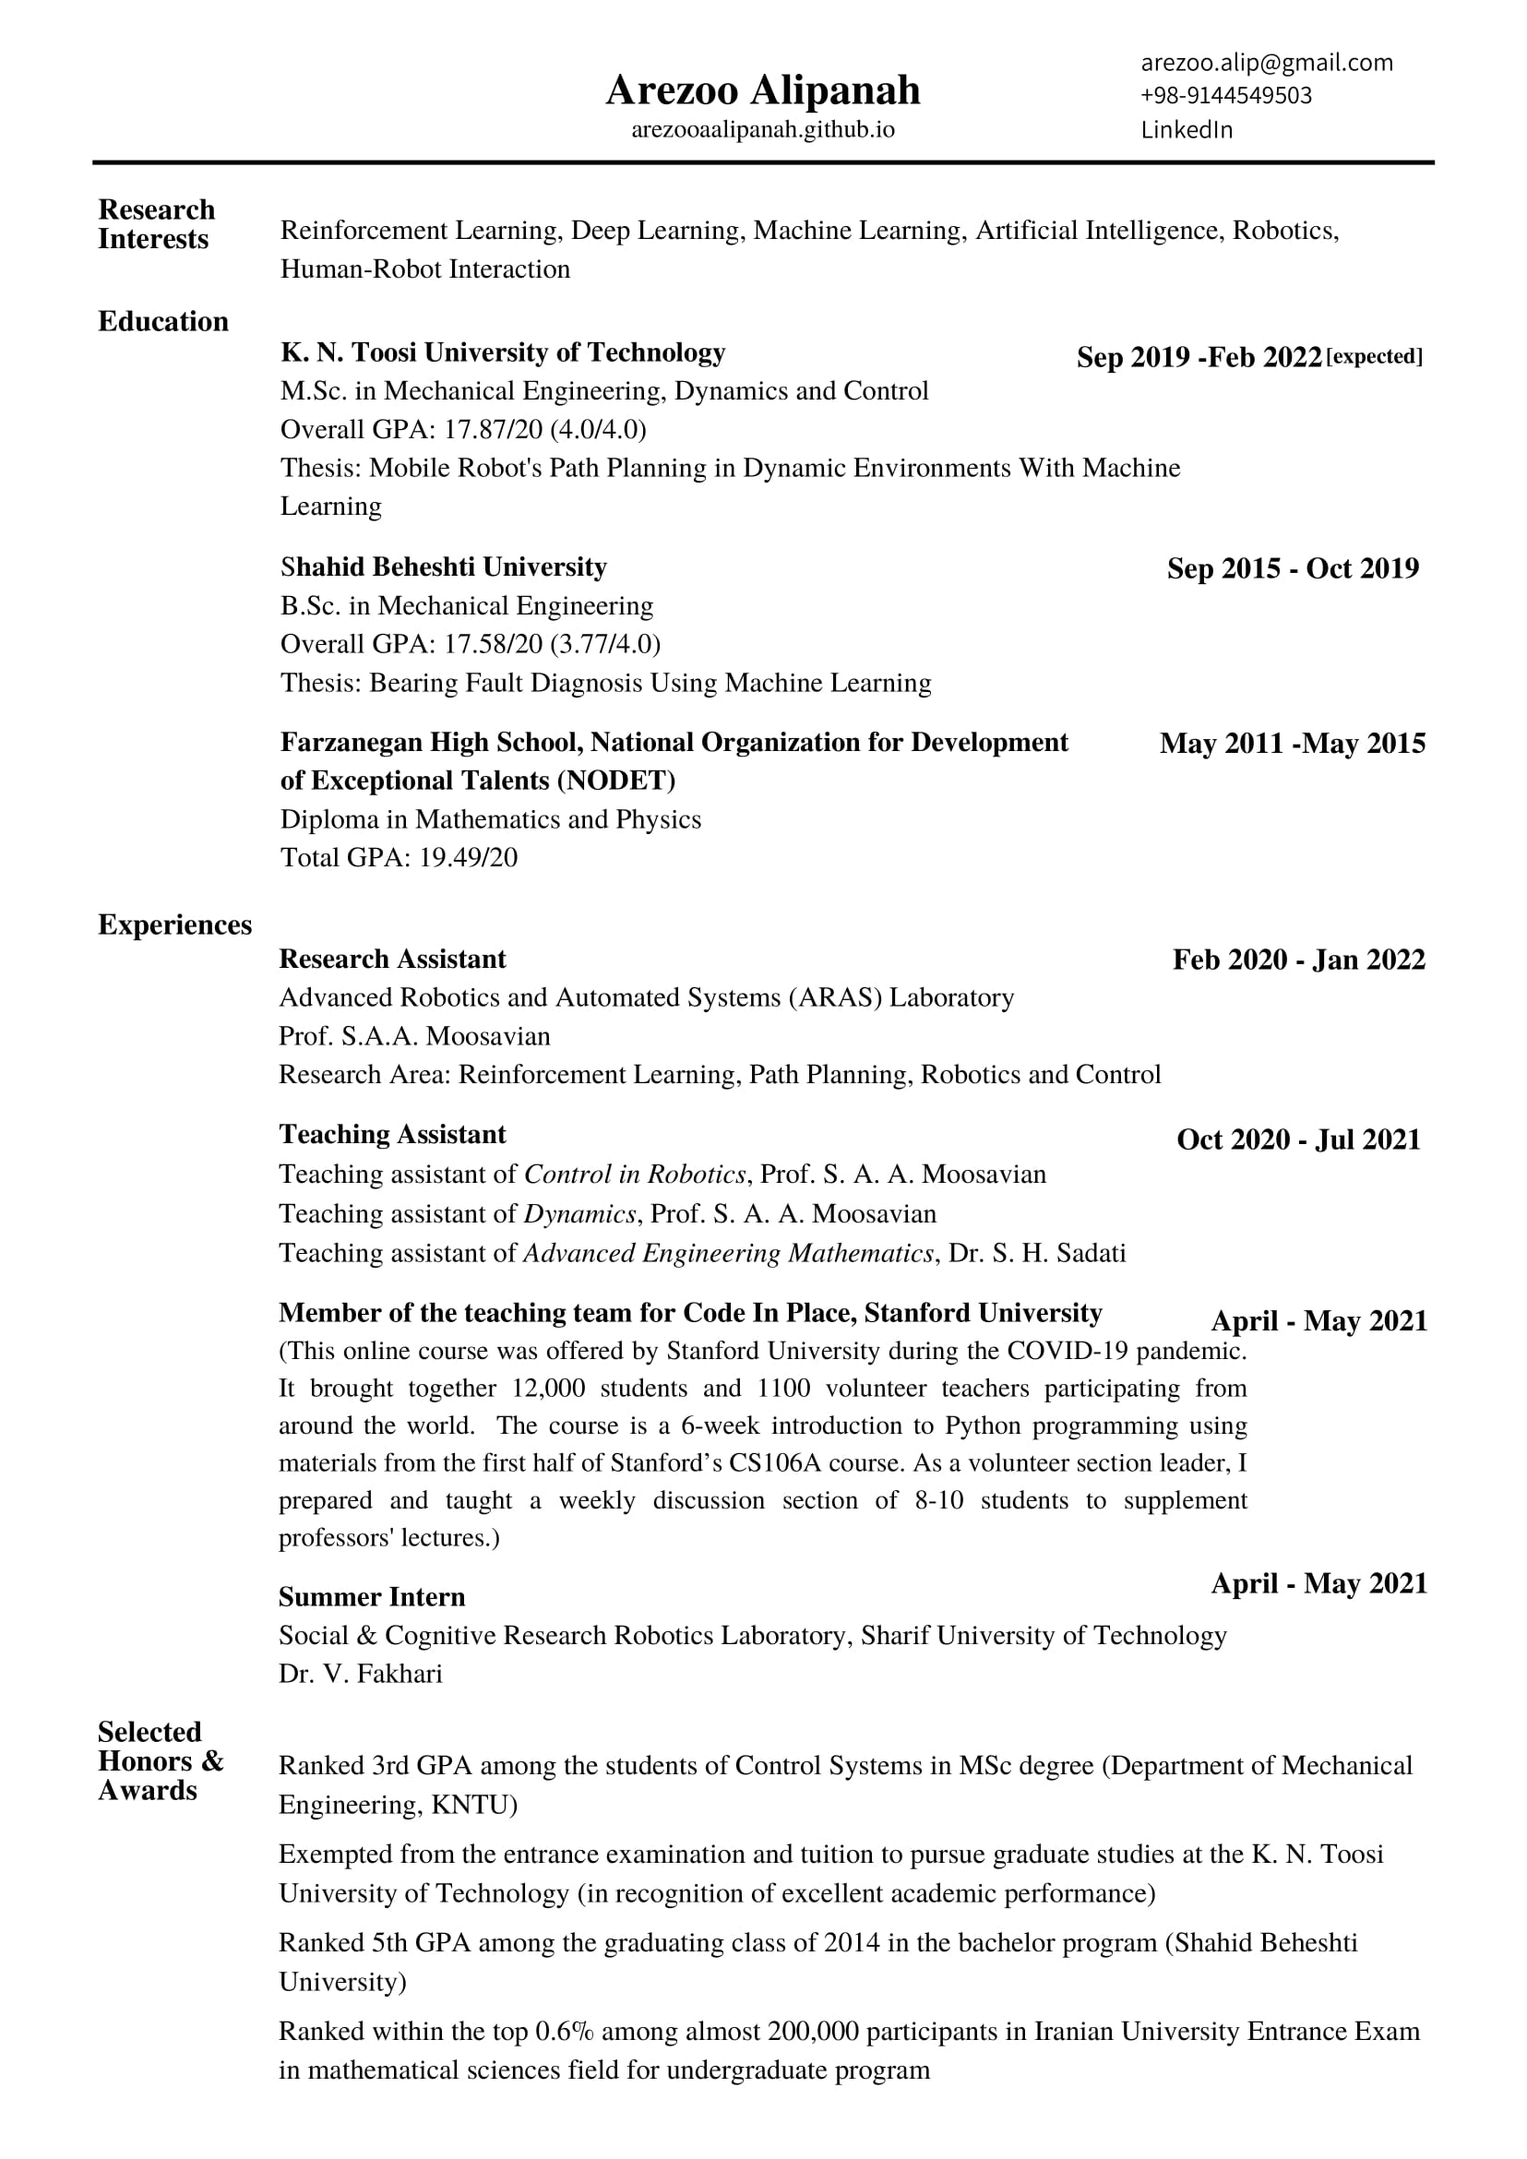
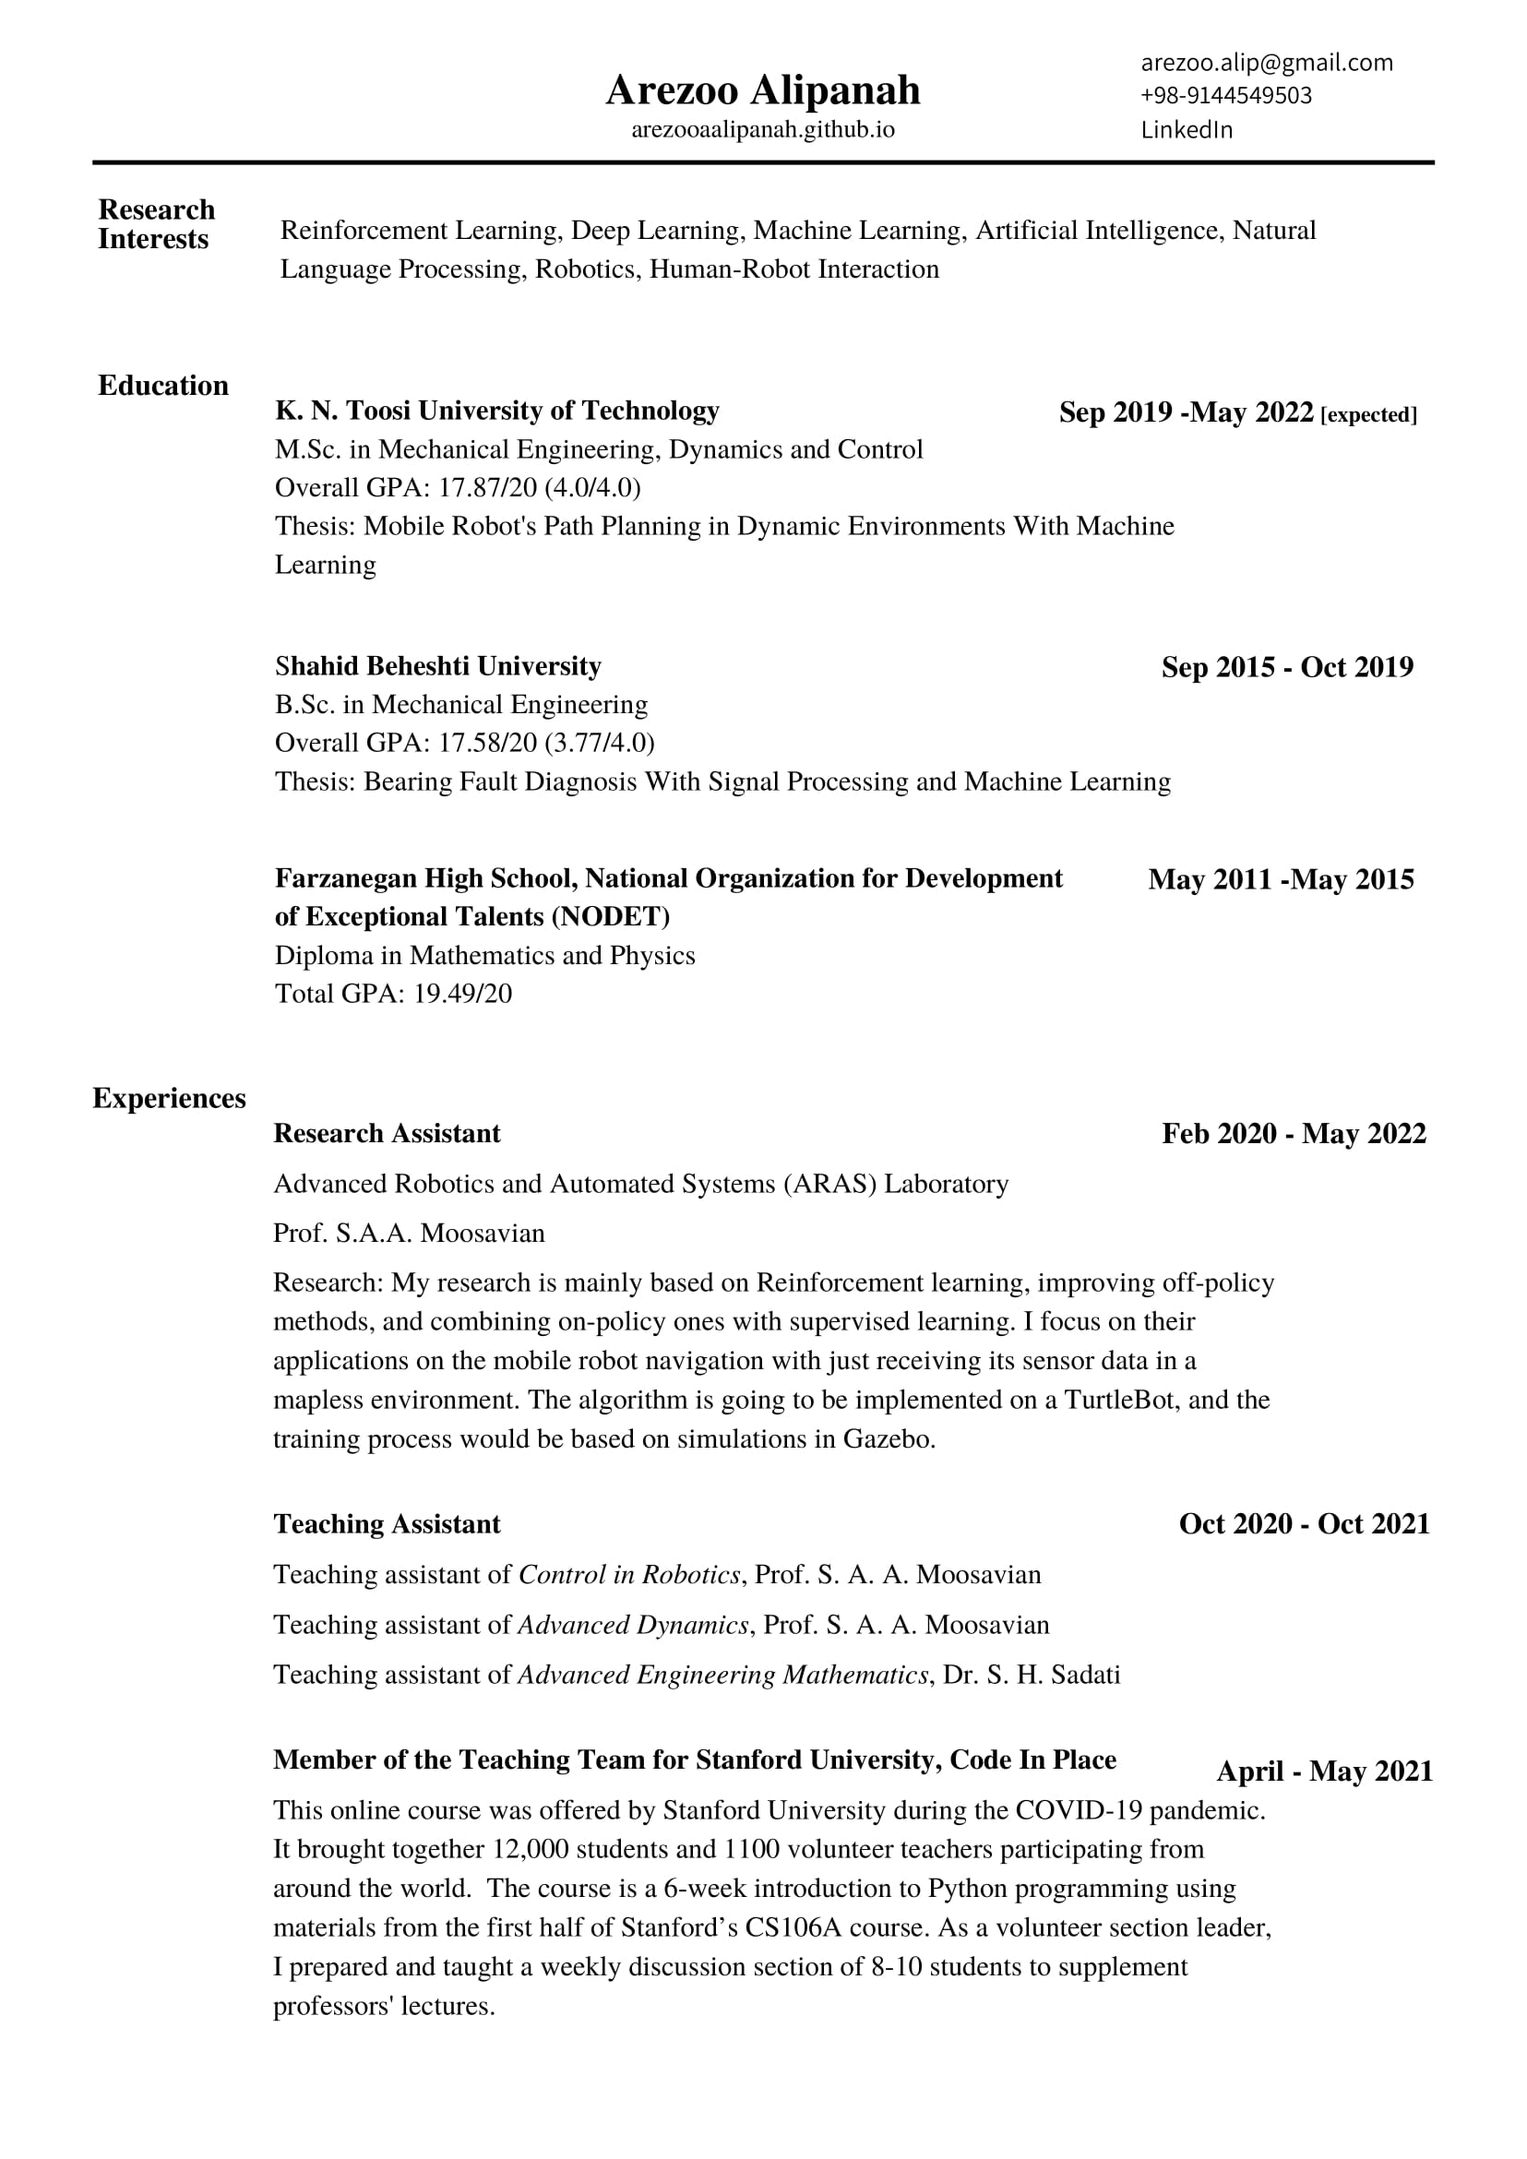
Update

diff --git a/Projects.html b/Projects.html
@@ -92,21 +92,92 @@
 
             <p class="project--p">
                 <cite class="project--cite" >
-                    RL-value iteration: Frozen Lake
+                    Building a Deep Q-Network for Training Atari 2600 VCS Breakout
                 </cite><br><br>
-                This project is for value iteration, both state values, and state-action values,
-                for a model-free environment where we have no access to the probabilities in the
-                Frozen lake environment on gym. This project is done for the practical reinforcement learning
-                course held by the Higher School of Economics, Russia.<br>
-                You can see how the agent has learned the right way to the goal in a 8*8 environment form every states:<br><br>
-                <img class="project--img" src="img/project3.png" > <br><br>
+                <img class="project--img" src="img/project9.JPG" > <br><br>
+                In this project, a deep Q-network is implemented using experience replay and target networks to train a 2600 VCS Breakout Atari game.
+                 The coding has been done both in Tensorflow and Pytorch frameworks.
+                 At first, a preprocess on the input images is done, and they are cut to make the process easier with fewer amounts of data.
+                 Then, a greyscale is added to the images to reduce the processing time for training.<br><br>
+                 <img class="project--img" src="img/project5.JPG" > <br><br> 
+                 A frame buffer is considered based on 
+                 <a href="https://arxiv.org/pdf/1312.5602.pdf" target=_blank>this article</a>
+                 to be used on the experience replay.<br>
+                 The CNN network has four dense convolutional layers and one output layer for the Q values. 
+                which would be called on every agent's step.
+                <img class="project--img" src="img/project7.JPG" > <br><br>
+                Using target networks as reference Q-values, Q-learning TD error is computed.<br><br>
+                <img class="project--img" src="img/project8.JPG" > <br><br>
+                 After that, using the Adam Optimizer, the agent has trained for about 75k steps. 
+                 Finally, after reaching a reward of almost 13 or 14 per every life, the training is stopped. 
+                Here you can see the result:
+                <a href="https://youtu.be/C3tqwUvX8P8" target="_blank">
+                    <i class="bi bi-youtube"></i>
+                </a><br><br>
                 Here is the GitHub link of this project:
-                <a href="https://github.com/ArezooAalipanah/RL_Examples/blob/main/week2_model_based/general_practice_vi.ipynb" target="_blank">
+                <a href="https://github.com/ArezooAalipanah/RL_Examples/blob/main/week4_approx/dqn_atari_pytorch.ipynb" target="_blank">
                     <i class="bi bi-github"></i>
                 </a>
 
             </p>
         </div>
+
+
+        <div class="project">
+
+            <p class="project--p">
+                <cite class="project--cite" >
+                    Building a Deep Reinforcement Learning with Advantage Actor-Critic for Atari Kung-Fu Master
+                </cite><br><br>
+                <img class="project--img" src="img/project10.JPG" > <br><br>
+                This project is training an agent for playing Atari Kung-Fu Master gym environment with parallel Advantage Actor-Critic method.<br> 
+                First, four grayscaled frames are stacked and cropped to make the agent interpret the object's velocity. <br>
+                <img class="project--img" src="img/project11.JPG" > <br><br>
+                Then, the agent is built with three convolutional neural layers containing 32 filters and the elu activation function,
+                 followed by a final dense layer with 128 units.<br>
+                 Finally, there are two outputs, one for the actor and one for the critic part, the actor has its units based on the number of actions in the game, 
+                 and the critic is the value predicted which has one unit.  <br>
+                 <img class="project--img" src="img/project12.JPG" > <br><br>
+                 Then, the environment is trained to get the rewards.
+                 The training process is done with ten different environments on parallel to make the training more stable.<br> 
+                 For each of the environments, the agent tries to use this a3c algorithm to improve its rewards.<br>
+                 After reaching a good reward, and a near-zero policy entropy, it is interpreted that the agent has learned the policy.
+    
+                Here you can see the result:
+                <a href="https://youtu.be/A4EvvPbbHXw" target="_blank">
+                    <i class="bi bi-youtube"></i>
+                </a><br><br>
+                Here is the GitHub link of this project:
+                <a href="https://github.com/ArezooAalipanah/RL_Examples/blob/main/week5_policy_based/practice_a3c2.ipynb" target="_blank">
+                    <i class="bi bi-github"></i>
+                </a>
+
+            </p>
+        </div>
+
+
+        <div class="project">
+
+            <p class="project--p">
+                <cite class="project--cite" >
+                    Translation of Hebrew words in English(g2p) with a policy-based reinforcement learning method
+                </cite><br><br>
+                Considering words as a sequence of letters, an encoder-decoder architecture is used in this project to convert Hebrew words to their English translations.<br> 
+                After mapping strings to token ids and vice versa, the encoder reads words character by character and outputs code vector, 
+                and the decoder takes that code vector and produces translations character by character. Here minimal Levenshtein distance is used.<br>
+                It measures how many characters we need to add/remove/replace from model translation to make it perfect. <br>
+                Reinforcement learning is employed in this project to translate the words with self-critical sequence training.<br><br>
+
+                <img class="project--img" src="img/project3.png" > <br><br>
+                Here is the GitHub link of this project:
+                <a href="https://github.com/ArezooAalipanah/RL_Examples/blob/main/week6_outro/seq2seq/practice_tf.ipynb" target="_blank">
+                    <i class="bi bi-github"></i>
+                </a>
+
+            </p>
+        </div>
+
+        
 
         <div class="project">
 

diff --git a/More.html b/More.html
@@ -100,11 +100,14 @@
         people always said to me that they are not suitable for a girl and wanted me to quit. However,
         I tried my best my way and did not get demotivated by their statements. This is why I found my character near to Beth Harmon's.<br><br><br>
         Deep Work,<br><br>
-        Talking about how to exceed in our career and especially our academic experiences,
-        this book is about deep work. Not to get bothered by social media and concentrate better to be more efficient.
-        I never had a Twitter account,
-        and after starting this book, I even decided to deactivate my Instagram account,
-        especially since there was news coming from everywhere and I needed to concentrate.<br><br>
+        I had this habit of deactivating all my social media accounts whenever I wanted to focus on something significant. <br>
+        After reading this book, I was introduced to deep work, and how getting distracted by all news, emails, and other social media activities
+         can affect our concentration in our academic and work life. <br>
+         The approaches described by Call Newport in how to manage the remaining time were truly helpful for me. 
+         One of the major things I have learned from this book, which I am using in my daily life recently, 
+         is to have a page for the remaining days before the deadline and draw a cross mark every hour that I have put in my work. <br>
+        This approach has helped me manage my daily work amount, and have a realistic estimate of how much 
+        time on average I should dedicate to do a project. <br><br><br><br>
         Also, you can read my reviews on good reads, and I am on the top 100 best reviewers list in Iran.</p>
     </div>
 

diff --git a/Certificates.html b/Certificates.html
@@ -94,6 +94,19 @@
         I prepared and taught a weekly discussion section of 8-10 students to supplement professors' lectures.
       </p>
     </div>
+
+    <div class="certify">
+      <img  class="certify--img"src="img/Coursera2.jpg" alt="Practical Reinforcement Learning" >
+      <cite class="certify--cite"> Practical Reinforcement Learning by HSE, Coursera</cite> <br>
+      <p  class="certify--p">
+        Online Course: Practical Reinforcement Learning <br><br>
+        I attended the Practical Reinforcement Learning online course presented by HSE University in Coursera,
+         and I finished both the main course and the honors part with a 100% grade.<br>
+         This course went through most of the RL concepts and covered good projects for implementation of reinforcement learning on different projects,<br>
+         on the Honors part these projects were more complicated.
+      </p>
+    </div>
+
     <div class="certify">
       <img class="certify--img" src="img/Coursera.jpg" alt="Deep Learning Course in Coursera">
       <br><cite class="certify--cite">Deep Learning by Andrew Ng, Coursera </cite> <br>
@@ -102,6 +115,9 @@
         I attended Deep Learning online course taught by Andrew Ng in Coursera and I finished it with a 99.17% grade.
       </p>
     </div>
+
+
+
     <div class="certify">
       <img  class="certify--img" src="img/ROS.jpg" alt="ROS Course in Maktabkhoone"><br><br>
       <cite class="certify--cite">ROS & Gazebo, Maktabkhoone</cite><br>

diff --git a/index.html b/index.html
@@ -102,12 +102,15 @@
             <div class="research">
                 <p class="research--p">
                     <cite class="intro--cite">Research Area</cite><br><br>
-                    My research mainly focuses on Path Planning through Reinforcement
-                    Learning (RL) under the supervision of S A A Moosavian on K.N.Toosi University.
+                    My research is mainly based on Reinforcement learning, improving off-policy methods, and combining on-policy ones with supervised learning.<br> 
+                    I focus on their applications on the mobile robot navigation with just receiving its sensor data in a mapless environment. <br>
+                    The algorithm is going to be implemented on a TurtleBot, and the training process would be based on simulations in Gazebo.<br>
+                    My master's thesis is under the supervision of S. A. A. Moosavian on K.N.Toosi University.<br>
                     More specifically, I study the following topics:<br><br>
                     <cite>1. Deep Reinforcement Learning</cite><br><br>
                     <cite>2. Off-policy policy evaluation and optimization</cite><br><br>
-                    <cite>3. Application of RL on path planning</cite>
+                    <cite>3. Application of RL on path planning</cite><br><br>
+                    <cite>4. Combination of on-policy methods and supervised learning</cite>
                 </p>
             </div>
 

diff --git a/Home.html b/Home.html
@@ -102,12 +102,15 @@
             <div class="research">
                 <p class="research--p">
                     <cite class="intro--cite">Research Area</cite><br><br>
-                    My research mainly focuses on Path Planning through Reinforcement
-                    Learning (RL) under the supervision of S A A Moosavian on K.N.Toosi University.
+                    My research is mainly based on Reinforcement learning, improving off-policy methods, and combining on-policy ones with supervised learning.<br> 
+                    I focus on their applications on the mobile robot navigation with just receiving its sensor data in a mapless environment. <br>
+                    The algorithm is going to be implemented on a TurtleBot, and the training process would be based on simulations in Gazebo.<br>
+                    My master's thesis is under the supervision of S A A Moosavian on K.N.Toosi University.
                     More specifically, I study the following topics:<br><br>
                     <cite>1. Deep Reinforcement Learning</cite><br><br>
                     <cite>2. Off-policy policy evaluation and optimization</cite><br><br>
-                    <cite>3. Application of RL on path planning</cite>
+                    <cite>3. Application of RL on path planning</cite><br><br>
+                    <cite>4. Combination of on-policy methods and supervised learning</cite>
                 </p>
             </div>
 

diff --git a/Abstracts.html b/Abstracts.html
@@ -86,11 +86,10 @@
                     <cite class="abs--cite" >Master's Thesis: Mobile Robot's Path Planning in Dynamic Environments With Machine Learning </cite><br><br>
                     On my master's thesis(still in progress), I go through different path planning methods used
                     for mobile robots. Starting from global path planning methods, I gradually reach local planning
-                    since my application for my thesis is for indoor robots having contact with humans, making the
-                    environment so dynamic and unpredictable. After inspecting different methods, I concentrate on
-                    reinforcement learning and, more specifically, deep reinforcement learning since these mobile robots
-                    are supposed to work among humans and need to react very quickly and safely. In the end, the algorithm
+                    since the application for my thesis is for robots in a map less envirnment. After inspecting different methods, I concentrate on
+                    reinforcement learning and, more specifically, deep reinforcement learning. In the end, the algorithm
                     is to be created and implemented on Trutlebot via ROS and analyze the robot's performance in the environment.
+                
                 </p>
         </div>
         <div class="abs">

diff --git a/CV.html b/CV.html
@@ -84,6 +84,7 @@
         <div class="cv">
             <img class="cv--img" src="img/cv1.jpg" alt="my cv" >
             <img class="cv--img" src="img/cv2.jpg" alt="my cv">
+            <img class="cv--img" src="img/cv3.jpg" alt="my cv" >
         </div>
 
     </div>
